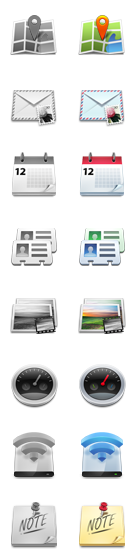
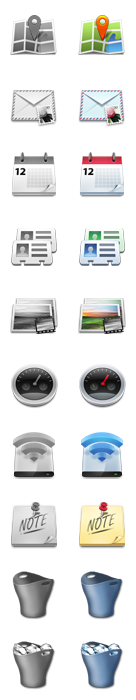
SPEED-22 New: add recycle bin image

diff --git a/css/768.css b/css/768.css
@@ -254,23 +254,27 @@ h2 {
 					width: 204px;
 				}
 
-			.shortcut-dashboard,	span.shortcut-dashboard	{ background-position: 0 0; }
-			.shortcut-messages,		span.shortcut-messages	{ background-position: 0 -70px; }
-			.shortcut-agenda,		span.shortcut-agenda	{ background-position: 0 -140px; }
-			.shortcut-contacts,		span.shortcut-contacts	{ background-position: 0 -210px; }
-			.shortcut-medias,		span.shortcut-medias	{ background-position: 0 -280px; }
-			.shortcut-stats,		span.shortcut-stats		{ background-position: 0 -350px; }
-			.shortcut-settings,		span.shortcut-settings	{ background-position: 0 -420px; }
-			.shortcut-notes,		span.shortcut-notes		{ background-position: 0 -490px; }
+			.shortcut-dashboard,	span.shortcut-dashboard		{ background-position: 0 0; }
+			.shortcut-messages,		span.shortcut-messages		{ background-position: 0 -70px; }
+			.shortcut-agenda,		span.shortcut-agenda		{ background-position: 0 -140px; }
+			.shortcut-contacts,		span.shortcut-contacts		{ background-position: 0 -210px; }
+			.shortcut-medias,		span.shortcut-medias		{ background-position: 0 -280px; }
+			.shortcut-stats,		span.shortcut-stats			{ background-position: 0 -350px; }
+			.shortcut-settings,		span.shortcut-settings		{ background-position: 0 -420px; }
+			.shortcut-notes,		span.shortcut-notes			{ background-position: 0 -490px; }
+			.shortcut-trash-empty,	span.shortcut-trash-empty	{ background-position: 0 -560px; }
+			.shortcut-trash-full,	span.shortcut-trash-full	{ background-position: 0 -630px; }
 
-				body.reversed a.shortcut-dashboard	{ background-position: 68px 0; }
-				body.reversed a.shortcut-messages	{ background-position: 68px -70px; }
-				body.reversed a.shortcut-agenda		{ background-position: 68px -140px; }
-				body.reversed a.shortcut-contacts	{ background-position: 68px -210px; }
-				body.reversed a.shortcut-medias		{ background-position: 68px -280px; }
-				body.reversed a.shortcut-stats		{ background-position: 68px -350px; }
-				body.reversed a.shortcut-settings	{ background-position: 68px -420px; }
-				body.reversed a.shortcut-notes		{ background-position: 68px -490px; }
+				body.reversed a.shortcut-dashboard		{ background-position: 68px 0; }
+				body.reversed a.shortcut-messages		{ background-position: 68px -70px; }
+				body.reversed a.shortcut-agenda			{ background-position: 68px -140px; }
+				body.reversed a.shortcut-contacts		{ background-position: 68px -210px; }
+				body.reversed a.shortcut-medias			{ background-position: 68px -280px; }
+				body.reversed a.shortcut-stats			{ background-position: 68px -350px; }
+				body.reversed a.shortcut-settings		{ background-position: 68px -420px; }
+				body.reversed a.shortcut-notes			{ background-position: 68px -490px; }
+				body.reversed a.shortcut-trash-empty	{ background-position: 68px -560px; }
+				body.reversed a.shortcut-trash-full		{ background-position: 68px -630px; }
 
 			#shortcuts > li > a:before,
 			#shortcuts > li:after {
@@ -297,14 +301,16 @@ h2 {
 						border-radius: 0 7px 7px 0;
 					}
 
-					a.shortcut-dashboard:before	{ background-position: -70px -5px; }
-					a.shortcut-messages:before	{ background-position: -70px -75px; }
-					a.shortcut-agenda:before	{ background-position: -70px -145px; }
-					a.shortcut-contacts:before	{ background-position: -70px -215px; }
-					a.shortcut-medias:before	{ background-position: -70px -285px; }
-					a.shortcut-stats:before		{ background-position: -70px -355px; }
-					a.shortcut-settings:before	{ background-position: -70px -425px; }
-					a.shortcut-notes:before		{ background-position: -70px -495px; }
+					a.shortcut-dashboard:before		{ background-position: -70px -5px; }
+					a.shortcut-messages:before		{ background-position: -70px -75px; }
+					a.shortcut-agenda:before		{ background-position: -70px -145px; }
+					a.shortcut-contacts:before		{ background-position: -70px -215px; }
+					a.shortcut-medias:before		{ background-position: -70px -285px; }
+					a.shortcut-stats:before			{ background-position: -70px -355px; }
+					a.shortcut-settings:before		{ background-position: -70px -425px; }
+					a.shortcut-notes:before			{ background-position: -70px -495px; }
+					a.shortcut-trash-empty:before	{ background-position: -70px -565px; }
+					a.shortcut-trash-full:before	{ background-position: -70px -635px; }
 
 				#shortcuts > li:after {
 					right: 0;
